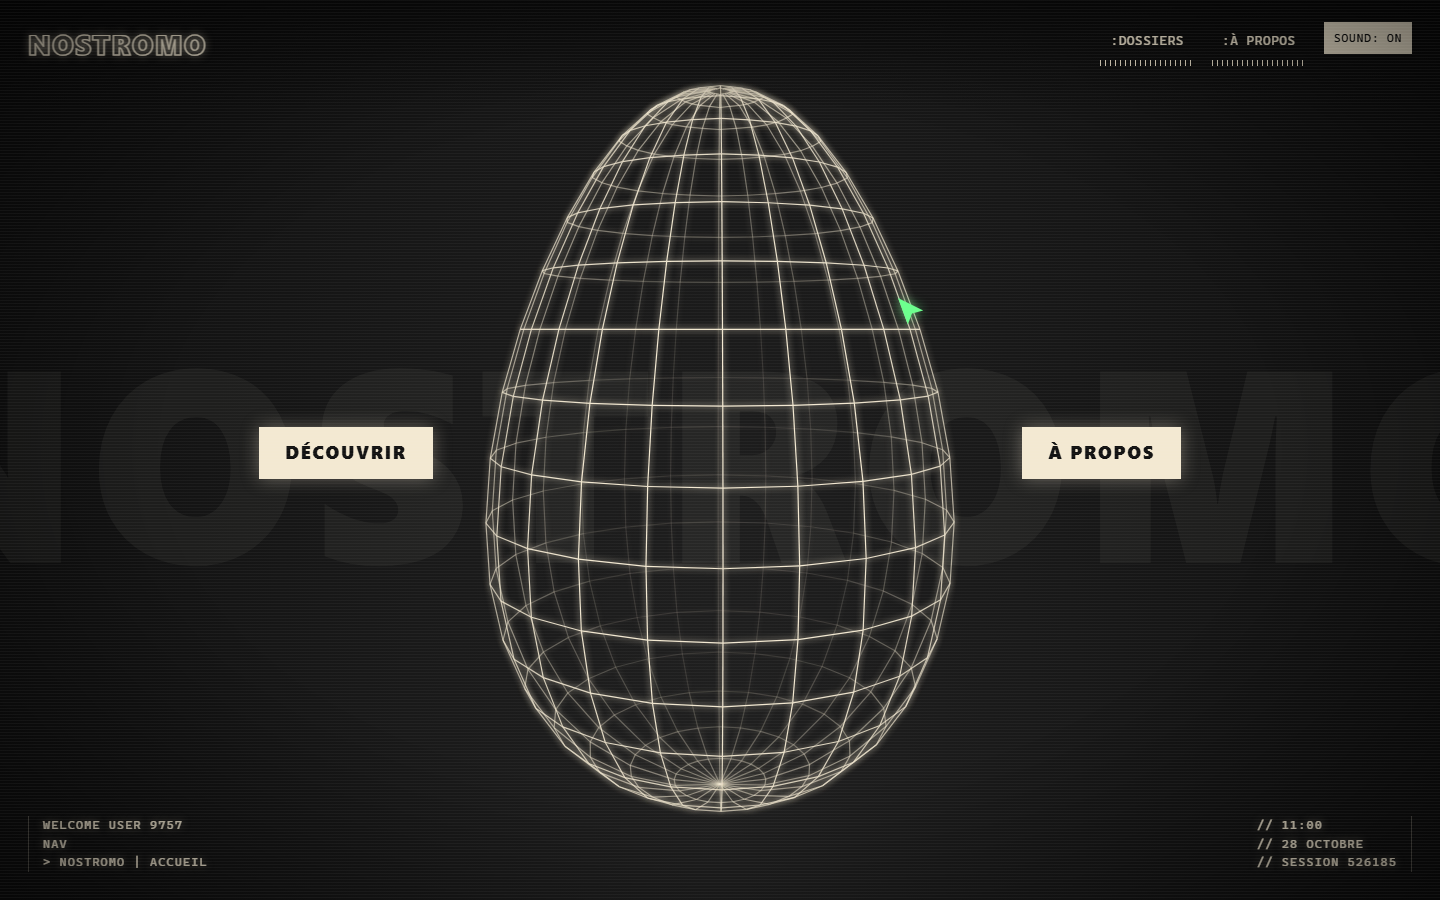
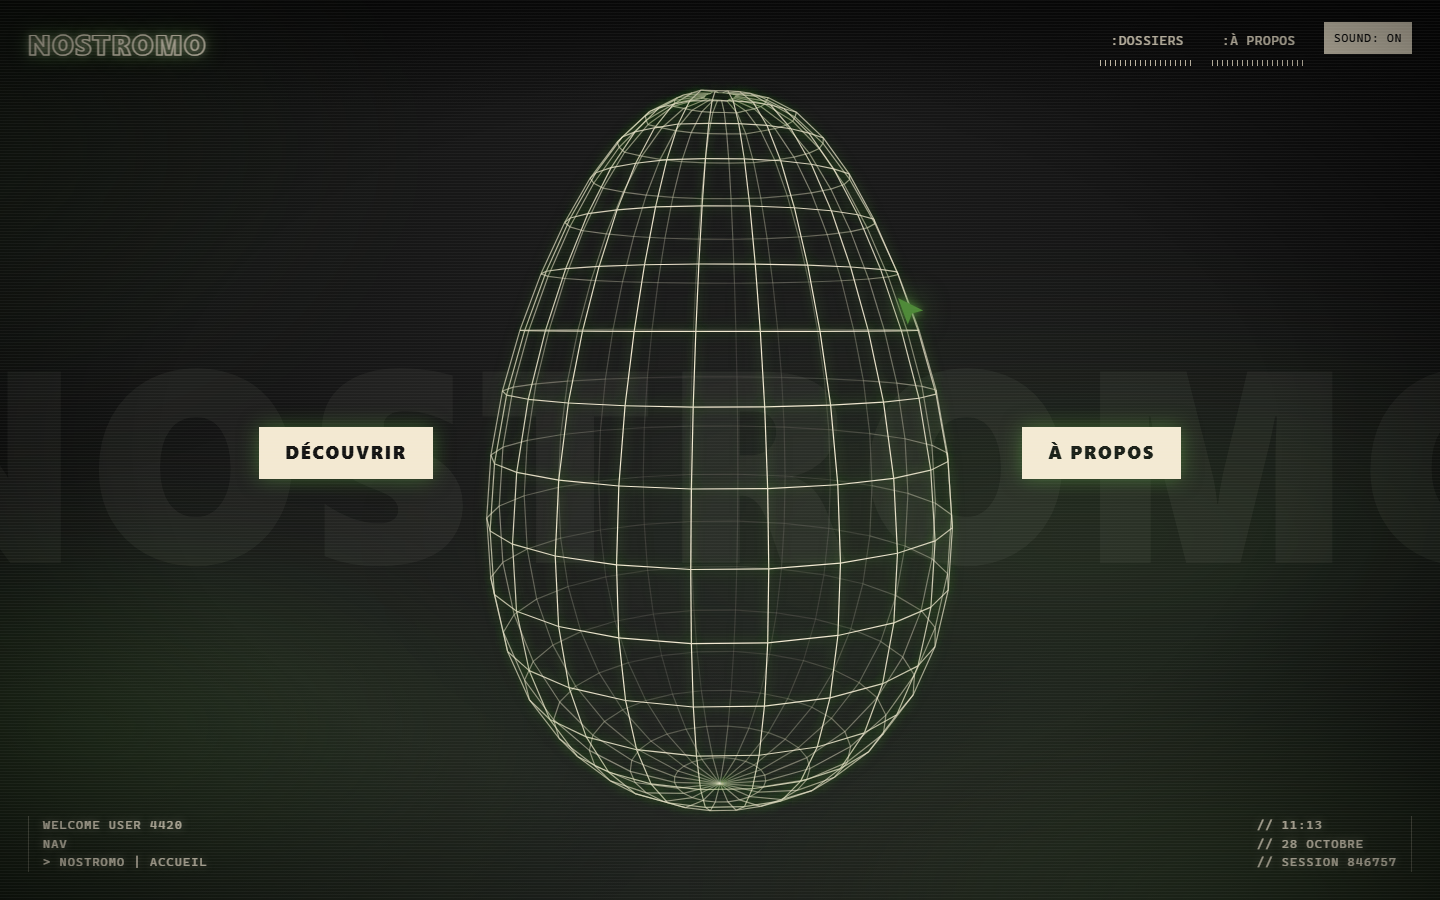
Vert acide, brume, lueurs et portraits facultatifs gardés en local

Changed region(s): [[0.3125, 0.0933, 0.6875, 0.9022], [0.9375, 0.9333, 0.9688, 0.9644], [0.0938, 0.9022, 0.125, 0.9333]]

diff --git a/app/client/alien/alien.css b/app/client/alien/alien.css
@@ -8,7 +8,7 @@
   --dim: rgba(243, 233, 210, 0.62);
   --line: rgba(243, 233, 210, 0.3);
   --bg: #121212;
-  --accent: #6dff8e;
+  --accent: #4f8a39;
   --mono: ui-monospace, 'Cascadia Mono', Consolas, 'Courier New', monospace;
   --wide: 'Segoe UI Black', 'Arial Black', 'Helvetica Neue', Arial, sans-serif;
   /* Variables du design system, lues par le jeu d'esquive. */
@@ -17,7 +17,7 @@
   --color-brand: #f3e9d2;
   --color-brandHover: #fff6df;
   --color-onBrand: #121212;
-  --color-danger: #6dff8e;
+  --color-danger: #4f8a39;
   --color-text: #f3e9d2;
   --color-surface: #181818;
   --color-muted: #cfc6b0;
@@ -137,7 +137,9 @@
   letter-spacing: 0.05em;
   color: transparent !important;
   -webkit-text-stroke: 1px var(--ink);
-  text-shadow: 0 0 10px rgba(243, 233, 210, 0.5);
+  text-shadow:
+    0 0 8px rgba(243, 233, 210, 0.4),
+    0 0 20px rgba(79, 138, 57, 0.9);
 }
 .al-root button.al-btn {
   display: inline-block;
@@ -149,7 +151,7 @@
   font-size: 18px;
   letter-spacing: 0.1em;
   text-transform: uppercase;
-  box-shadow: 0 0 18px rgba(243, 233, 210, 0.35);
+  box-shadow: 0 0 20px rgba(79, 138, 57, 0.6);
   transition:
     transform 0.2s,
     box-shadow 0.2s;
@@ -157,7 +159,7 @@
 .al-root button.al-btn:hover,
 .al-root button.al-btn:focus-visible {
   transform: translateY(-2px);
-  box-shadow: 0 0 28px rgba(243, 233, 210, 0.6);
+  box-shadow: 0 0 34px rgba(79, 138, 57, 0.95);
 }
 
 /* Écran d'entrée */
@@ -176,7 +178,7 @@
   width: 64px;
   height: 64px;
   color: var(--ink);
-  filter: drop-shadow(0 0 6px rgba(243, 233, 210, 0.6));
+  filter: drop-shadow(0 0 7px rgba(79, 138, 57, 0.95));
 }
 
 /* Repères d'écran */
@@ -412,7 +414,7 @@
   width: 104px;
   height: 104px;
   color: var(--ink);
-  filter: drop-shadow(0 0 6px rgba(243, 233, 210, 0.5));
+  filter: drop-shadow(0 0 7px rgba(79, 138, 57, 0.95));
 }
 .al-card-name {
   font-family: var(--wide);
@@ -466,7 +468,7 @@
   padding: 22px 26px 30px;
   border: 1px solid var(--ink);
   background: #151515;
-  box-shadow: 0 0 40px rgba(243, 233, 210, 0.12);
+  box-shadow: 0 0 46px rgba(79, 138, 57, 0.4);
   transform: rotateX(var(--rx)) rotateY(var(--ry));
   transition: transform 0.5s cubic-bezier(0.2, 0.8, 0.2, 1);
   animation: al-sheet-in 0.7s cubic-bezier(0.2, 0.8, 0.2, 1);
@@ -727,4 +729,119 @@
   width: 170px;
   height: 214px;
   animation: al-swing 7s ease-in-out infinite;
+}
+
+/* Vert Alien (#4F8A39) : lueur sur le curseur, le focus, les statuts et les cartes. */
+.al-root .al-cursor {
+  filter: drop-shadow(0 0 4px rgba(79, 138, 57, 0.95))
+    drop-shadow(0 0 14px rgba(79, 138, 57, 0.8));
+}
+.al-root :focus-visible {
+  outline: 2px solid var(--accent);
+  box-shadow: 0 0 14px rgba(79, 138, 57, 0.9);
+}
+/* Texte en vert : on éclaircit un peu le vert pour garder un contraste d'au moins 4,5:1. */
+.al-root .al-status {
+  color: color-mix(in srgb, var(--accent) 85%, var(--ink));
+  text-shadow: 0 0 10px var(--accent);
+}
+.al-root button.al-card:hover,
+.al-root button.al-card:focus-visible {
+  border-color: var(--accent) !important;
+  box-shadow:
+    0 0 22px rgba(79, 138, 57, 0.45),
+    inset 0 0 22px rgba(79, 138, 57, 0.14);
+}
+.al-meter i {
+  box-shadow: 0 0 10px rgba(79, 138, 57, 0.9);
+}
+
+/* Portraits : tons verts, comme un écran de terminal. */
+.al-photo {
+  filter: grayscale(1) sepia(0.7) hue-rotate(58deg) saturate(1.7)
+    brightness(0.92) contrast(1.12);
+}
+
+/* Brume acide : de grandes taches vertes floues qui dérivent très lentement. */
+.al-fog {
+  position: fixed;
+  inset: -20%;
+  z-index: 48;
+  overflow: hidden;
+  pointer-events: none;
+  opacity: 0.6;
+  mix-blend-mode: screen;
+  background: linear-gradient(
+    to top,
+    rgba(79, 138, 57, 0.2) 0%,
+    transparent 38%
+  );
+}
+.al-fog::before,
+.al-fog::after {
+  content: '';
+  position: absolute;
+  inset: 0;
+  filter: blur(48px);
+  will-change: transform;
+}
+.al-fog::before {
+  background:
+    radial-gradient(
+      40% 30% at 22% 70%,
+      rgba(79, 138, 57, 0.42),
+      transparent 70%
+    ),
+    radial-gradient(
+      34% 28% at 78% 84%,
+      rgba(103, 160, 70, 0.34),
+      transparent 70%
+    );
+  animation: al-mist-a 38s ease-in-out infinite alternate;
+}
+.al-fog::after {
+  background:
+    radial-gradient(
+      44% 24% at 62% 58%,
+      rgba(79, 138, 57, 0.3),
+      transparent 70%
+    ),
+    radial-gradient(
+      30% 30% at 10% 30%,
+      rgba(79, 138, 57, 0.22),
+      transparent 70%
+    );
+  animation: al-mist-b 55s ease-in-out infinite alternate;
+}
+@keyframes al-mist-a {
+  from {
+    transform: translate3d(-4%, 2%, 0) scale(1);
+  }
+  to {
+    transform: translate3d(6%, -3%, 0) scale(1.15);
+  }
+}
+@keyframes al-mist-b {
+  from {
+    transform: translate3d(5%, -2%, 0) scale(1.1);
+  }
+  to {
+    transform: translate3d(-6%, 3%, 0) scale(1);
+  }
+}
+
+/* Zone portrait de hauteur fixe : les six cartes restent alignées, quelle que soit l'image. */
+.al-card-icon.has-photo {
+  flex: none;
+  height: 210px;
+  min-height: 0;
+}
+.al-card-icon.has-photo .al-photo {
+  display: block;
+  width: 100%;
+  height: 100%;
+}
+.al-sheet-art .al-photo {
+  width: 190px;
+  height: 230px;
 }

diff --git a/app/client/alien/AlienSite.tsx b/app/client/alien/AlienSite.tsx
@@ -20,6 +20,15 @@ const photos = import.meta.glob('./images/*.{jpg,jpeg,png,webp}', {
   query: '?url',
   import: 'default',
 }) as Record<string, string>;
+// Cadrage des portraits (object-position), pour garder le visage dans la carte.
+const focus: Record<string, string> = {
+  ripley: '50% 18%',
+  xenomorphe: '40% 45%',
+  ash: '58% 30%',
+  bishop: '50% 28%',
+  jonesy: '72% 55%',
+  mother: '50% 50%',
+};
 function photoFor(id: string): string | undefined {
   for (const [path, url] of Object.entries(photos))
     if (
@@ -249,7 +258,12 @@ function DossierCard({
         </span>
         <span className={`al-card-icon${photo ? ' has-photo' : ''}`}>
           {photo ? (
-            <img className="al-photo" src={photo} alt="" />
+            <img
+              className="al-photo"
+              src={photo}
+              alt=""
+              style={{ objectPosition: focus[d.id] }}
+            />
           ) : (
             <Icon kind={d.icon} />
           )}
@@ -308,7 +322,12 @@ function DossierDialog({ d, onClose }: { d: Dossier; onClose: () => void }) {
         <div className="al-sheet-body">
           <div className="al-sheet-art" aria-hidden="true">
             {photoFor(d.id) ? (
-              <img className="al-photo" src={photoFor(d.id)} alt="" />
+              <img
+                className="al-photo"
+                src={photoFor(d.id)}
+                alt=""
+                style={{ objectPosition: focus[d.id] }}
+              />
             ) : (
               <Icon kind={d.icon} />
             )}
@@ -438,6 +457,7 @@ export default function AlienSite() {
   if (phase === 'intro') {
     return (
       <div className="al-root al-intro" data-phase="intro">
+        <div className="al-fog" aria-hidden="true" />
         <div className="al-scan" aria-hidden="true" />
         <Cursor />
         <p className="al-logo" aria-hidden="true">
@@ -468,6 +488,7 @@ export default function AlienSite() {
 
   return (
     <div className="al-root" data-phase="site">
+      <div className="al-fog" aria-hidden="true" />
       <div className="al-scan" aria-hidden="true" />
       <Cursor />
       <header className="al-header">
@@ -554,7 +575,9 @@ export default function AlienSite() {
         <p>
           Page de fan réalisée pour un exercice de design interactif. Alien et
           ses personnages appartiennent à 20th Century Studios. Textes
-          originaux, aucun visuel ni extrait du film.
+          originaux, sans extrait du film. Les portraits sont des images tirées
+          des films, propriété de leurs ayants droit, montrées ici à titre
+          d’illustration pour une présentation privée.
         </p>
         <p>
           La musique est générée en direct dans ton navigateur. Le fil de fer 3D

diff --git a/app/client/alien/Ovomorph.tsx b/app/client/alien/Ovomorph.tsx
@@ -56,6 +56,7 @@ export default function Ovomorph({ hot }: { hot: boolean }) {
     let width = 0;
     let height = 0;
     let ink = '#f3e9d2';
+    let accent = '#4f8a39';
     const resize = () => {
       const dpr = Math.min(2, window.devicePixelRatio || 1);
       width = canvas.clientWidth;
@@ -63,8 +64,9 @@ export default function Ovomorph({ hot }: { hot: boolean }) {
       canvas.width = Math.max(1, Math.floor(width * dpr));
       canvas.height = Math.max(1, Math.floor(height * dpr));
       ctx.setTransform(dpr, 0, 0, dpr, 0, 0);
-      ink =
-        getComputedStyle(canvas).getPropertyValue('--ink').trim() || '#f3e9d2';
+      const css = getComputedStyle(canvas);
+      ink = css.getPropertyValue('--ink').trim() || '#f3e9d2';
+      accent = css.getPropertyValue('--accent').trim() || '#4f8a39';
     };
     resize();
     const onMove = (e: PointerEvent) => {
@@ -114,8 +116,8 @@ export default function Ovomorph({ hot }: { hot: boolean }) {
       ctx.clearRect(0, 0, width, height);
       ctx.lineWidth = 1.2;
       ctx.strokeStyle = ink;
-      ctx.shadowColor = ink;
-      ctx.shadowBlur = 6;
+      ctx.shadowColor = accent;
+      ctx.shadowBlur = 12;
       const grid = buildEgg(open).map((ring) => ring.map(project));
       const seg = (p: { x: number; y: number; z: number }, q: typeof p) => {
         ctx.globalAlpha = Math.max(

diff --git a/README.md b/README.md
@@ -4,8 +4,6 @@ Un petit site de fan, dans l'univers de la saga Alien, réalisé pour un exercic
 
 ![Accueil de Nostromo](docs/images/nostromo-accueil.png)
 
-![Un dossier de personnage](docs/images/nostromo-dossier.png)
-
 ## Ce que contient ce dépôt
 
 - Le site Nostromo, qui s'ouvre à la racine (`/`).
@@ -21,7 +19,7 @@ Un petit site de fan, dans l'univers de la saga Alien, réalisé pour un exercic
 
 ## Mentions
 
-Page de fan, non officielle. Alien et ses personnages appartiennent à 20th Century Studios. Les textes sont originaux, sans citation ni visuel du film. Les jauges des dossiers sont fictives.
+Page de fan, non officielle. Alien et ses personnages appartiennent à 20th Century Studios. Les textes sont originaux, sans citation du film. Les jauges des dossiers sont fictives. Les portraits des personnages sont des images tirées des films : ils ne sont pas dans le dépôt, chacun les dépose en local dans `app/client/alien/images/` (voir le `LISEZMOI.md` de ce dossier).
 
 ## Lancer le site
 

diff --git a/workspace/PFE.md b/workspace/PFE.md
@@ -2,7 +2,7 @@
 
 Nostromo : un petit site interactif sur l’équipage du cargo Nostromo, dans l’univers de la saga Alien, réalisé pour un exercice de design interactif.
 
-Page de fan, non officielle. Alien et ses personnages appartiennent à 20th Century Studios. Les textes sont originaux, aucun visuel ni extrait du film n’est utilisé.
+Page de fan, non officielle. Alien et ses personnages appartiennent à 20th Century Studios. Les textes sont originaux. Les portraits sont des images tirées des films, gardées en local pour une présentation privée, non publiées dans le dépôt.
 
 ## Ce que fait le site
 
